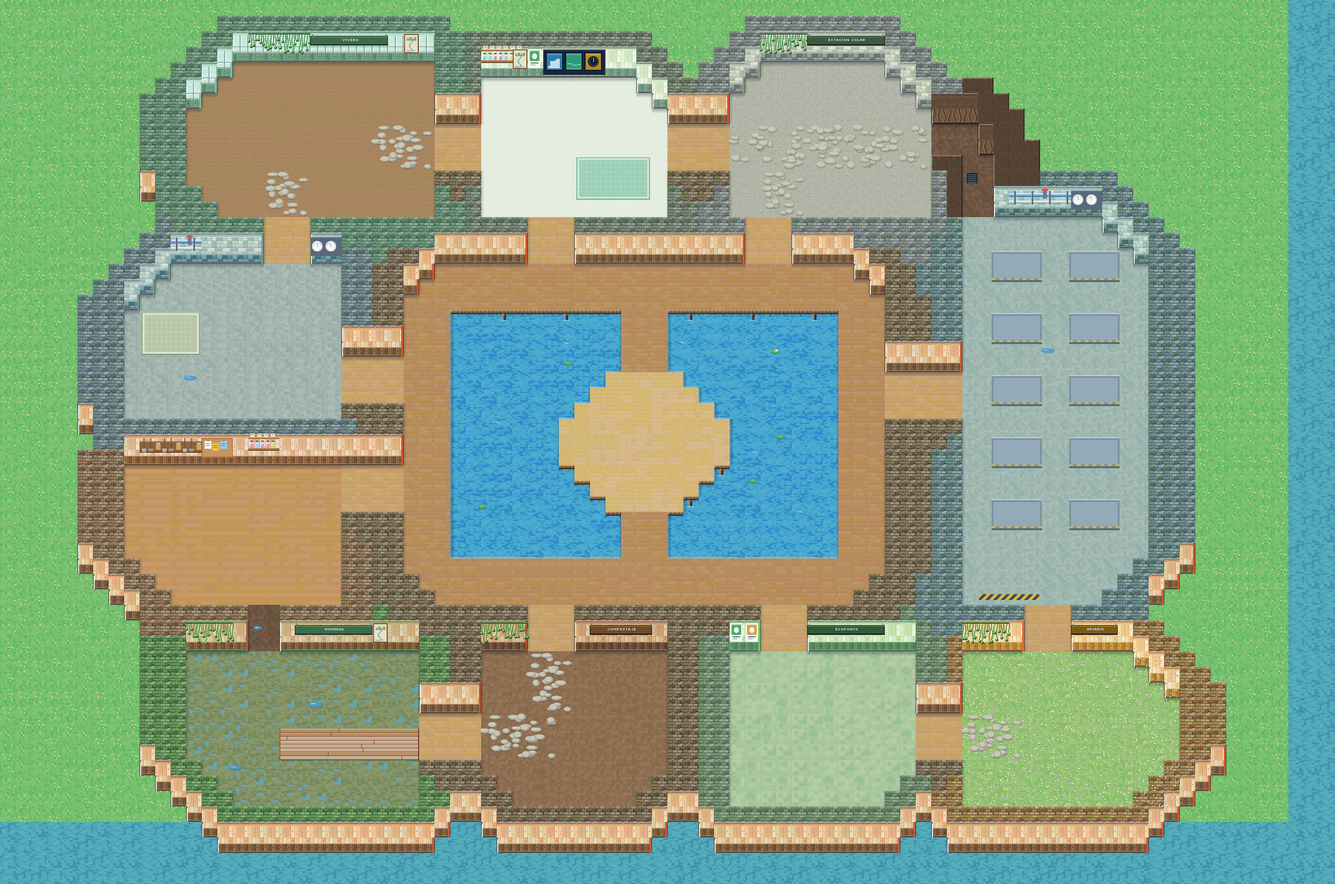
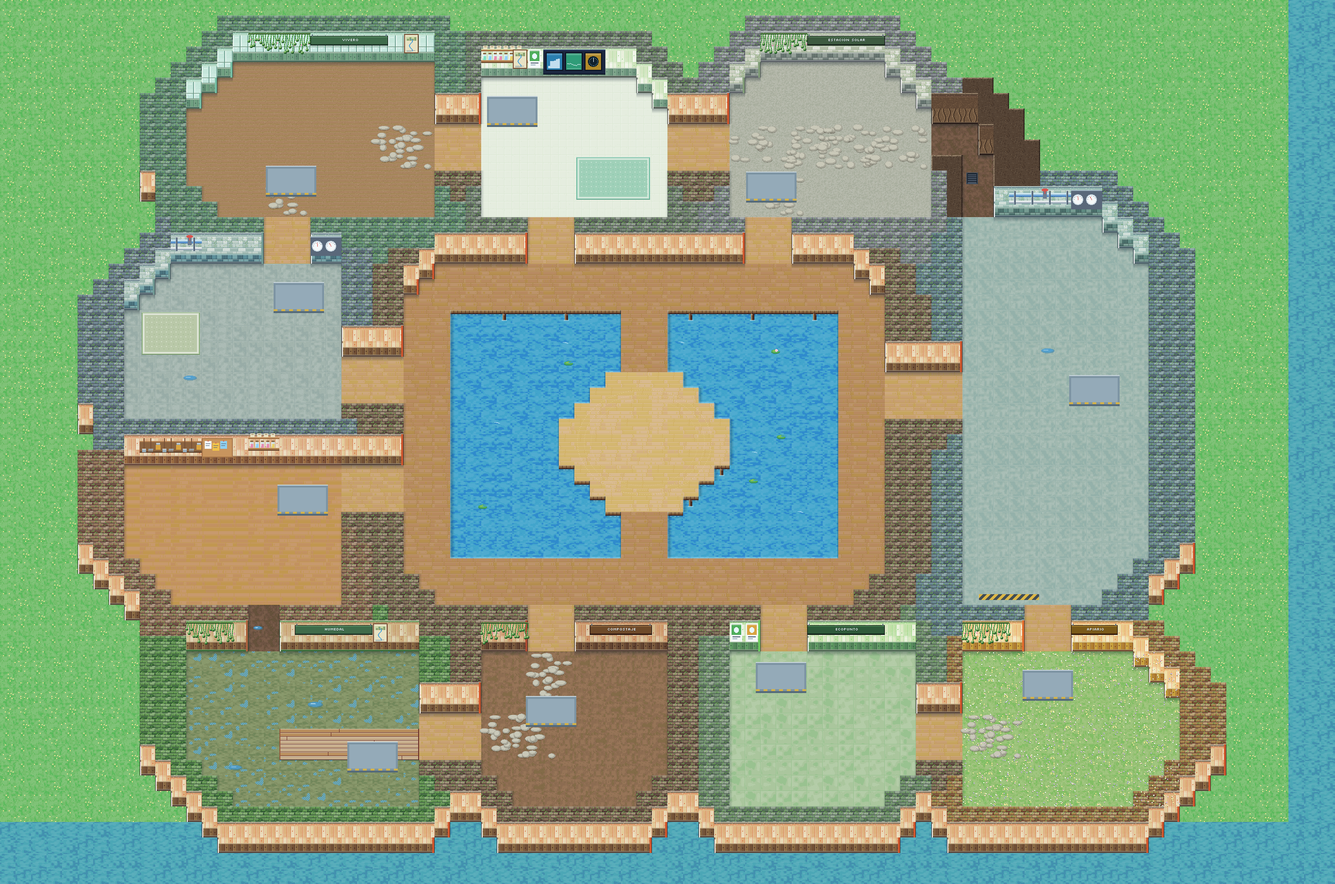
feat(map): spread the 10 tanks over the 10 rooms
One tank per room so damaging one no longer points at the cisterns yard.
Slots are ordered so the first players start far apart. ground.png keeps
only the bases that exist, minimap and thumbnail are regenerated.

diff --git a/web/src/map.test.ts b/web/src/map.test.ts
@@ -1,5 +1,5 @@
 import { describe, expect, it } from 'vitest';
-import { gameMap, type Rect, zoneRoom } from './map';
+import { gameMap, meetingMarker, type Rect, zoneRoom } from './map';
 
 const inside = (r: Rect, x: number, y: number) =>
   x >= r.x && x <= r.x + r.w && y >= r.y && y <= r.y + r.h;
@@ -39,6 +39,10 @@ describe('shared/map.json', () => {
     ).toBe(true);
   });
 
+  it('has the meeting point where everyone gathers', () => {
+    expect(meetingMarker(gameMap)).toMatchObject({ x: 1328, y: 912 });
+  });
+
   it('has 4 stations of each R, each one in a room of the map', () => {
     const count = (type: string) =>
       gameMap.stations.filter((s) => s.type === type).length;
@@ -47,6 +51,16 @@ describe('shared/map.json', () => {
     ]);
     const rooms = new Set(gameMap.zones.map(zoneRoom));
     for (const s of gameMap.stations) expect(rooms.has(s.room!)).toBe(true);
+  });
+
+  it('puts every tank in a different room', () => {
+    const roomOf = (x: number, y: number) =>
+      gameMap.zones
+        .filter((z) => x >= z.x && x < z.x + z.w && y >= z.y && y < z.y + z.h)
+        .map(zoneRoom)[0];
+    const rooms = gameMap.tanks.map((t) => roomOf(t.x, t.y));
+    expect(rooms.every(Boolean)).toBe(true);
+    expect(new Set(rooms).size).toBe(gameMap.tanks.length);
   });
 
   it('has 10 tank slots and the 3 sabotage fix points', () => {

diff --git a/docs/tasks.md b/docs/tasks.md
@@ -67,6 +67,7 @@ El mapa vive en **`shared/map.json`** (carpeta nueva en la raíz). Lo usan `matc
 - `id`, `name`, `tile`, `playerRadius`: datos generales del mapa.
 - `stations[].name`, `room` y `radius`: nombre visible, sala y alcance propio de cada estación (si falta `radius`, se usa el de `match`).
 - `tanks[].draw`: esquina del sprite del tanque; `x, y` siguen siendo el punto de interacción.
+- Un tanque por sala (10 salas, 10 tanques) y cada uno lleva su pared de 72×44 en `(x-36, y-24)` dentro de `walls`; si lo mueves, mueve también esa pared y la base de concreto de `ground.png`.
 - `fixPoints`: `{ id, kind: 'pipe' | 'steam', room, x, y }`, los puntos donde se arreglan los sabotajes (2 extremos de tubería y 1 válvula de vapor).
 - `zones[].kind/theme`, `doors` y `markers`: solo para dibujar y nombrar salas; `match` no los usa.
 - Las imágenes del mapa (suelo, props, tanques, luz nocturna y minimapa) viven en `web/public/assets/map/manglar-verde/`; `walls` sigue siendo la única fuente de colisiones.
